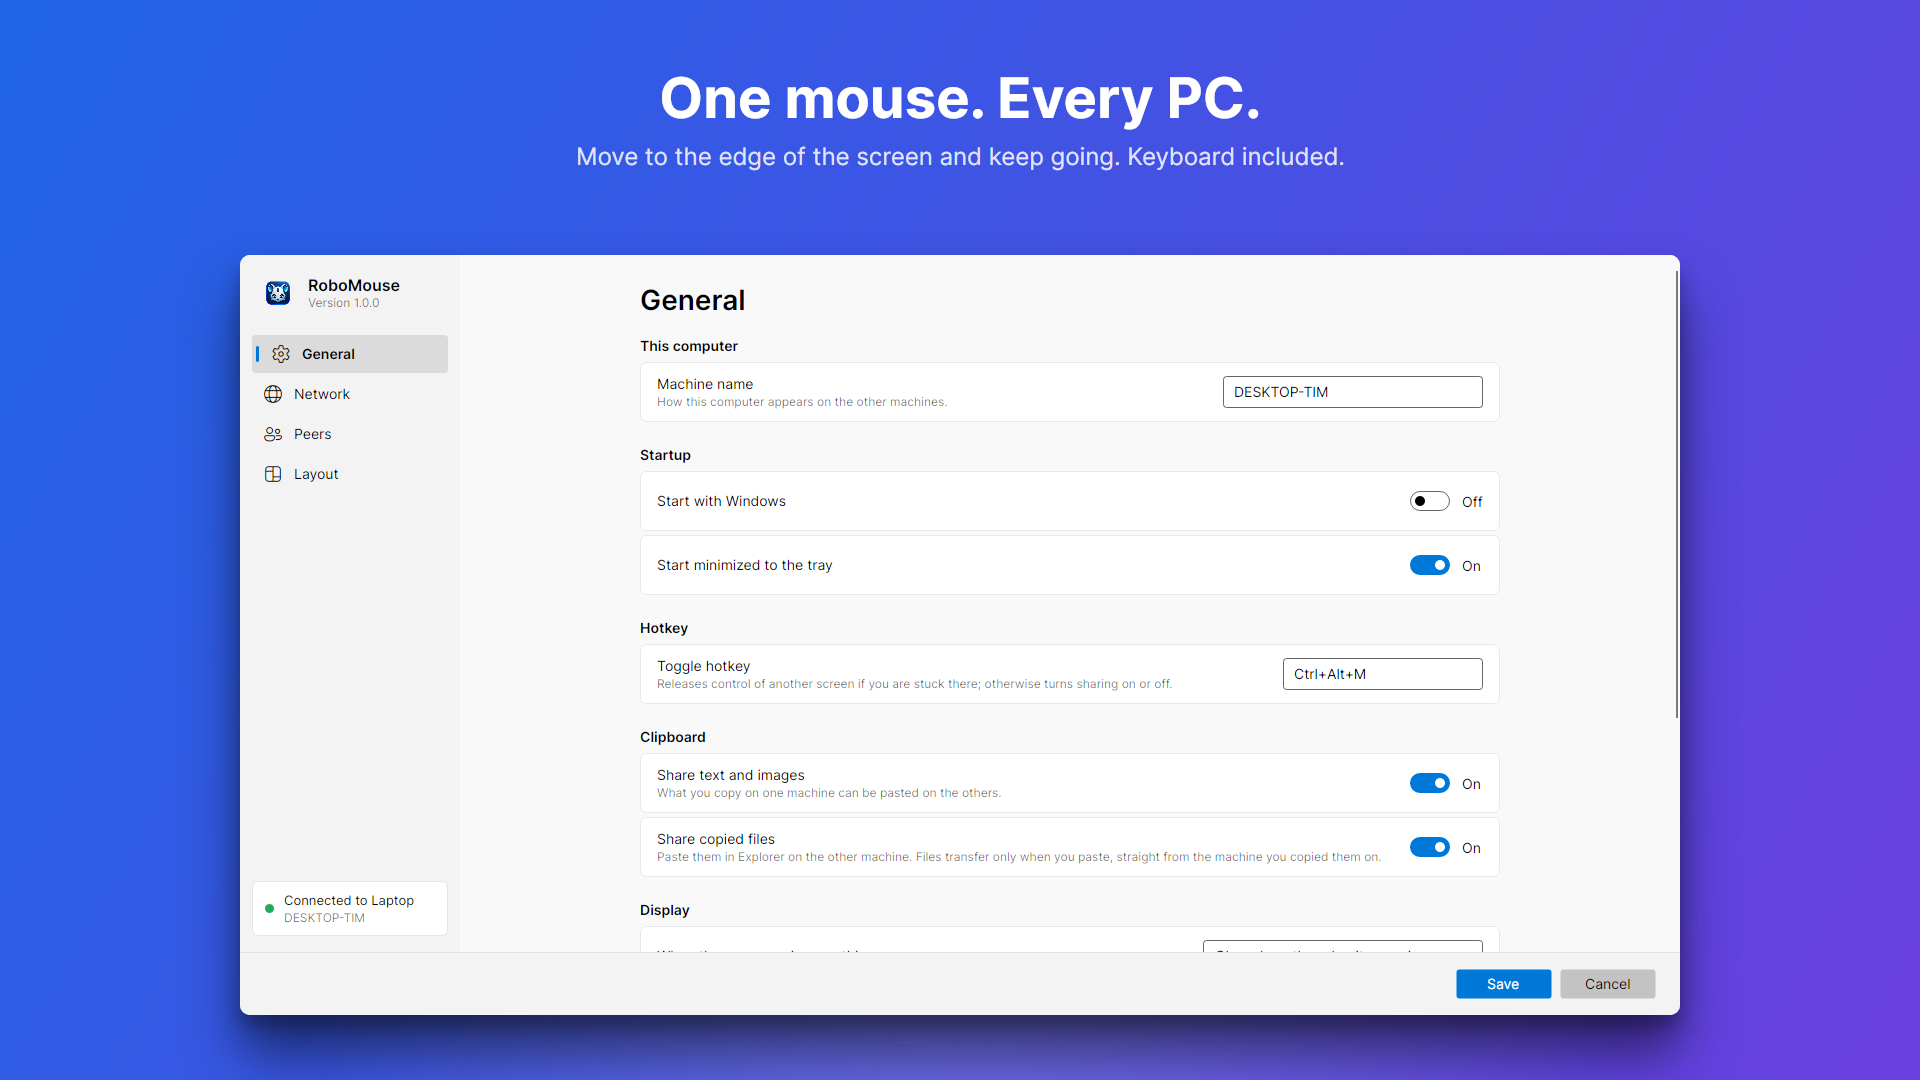
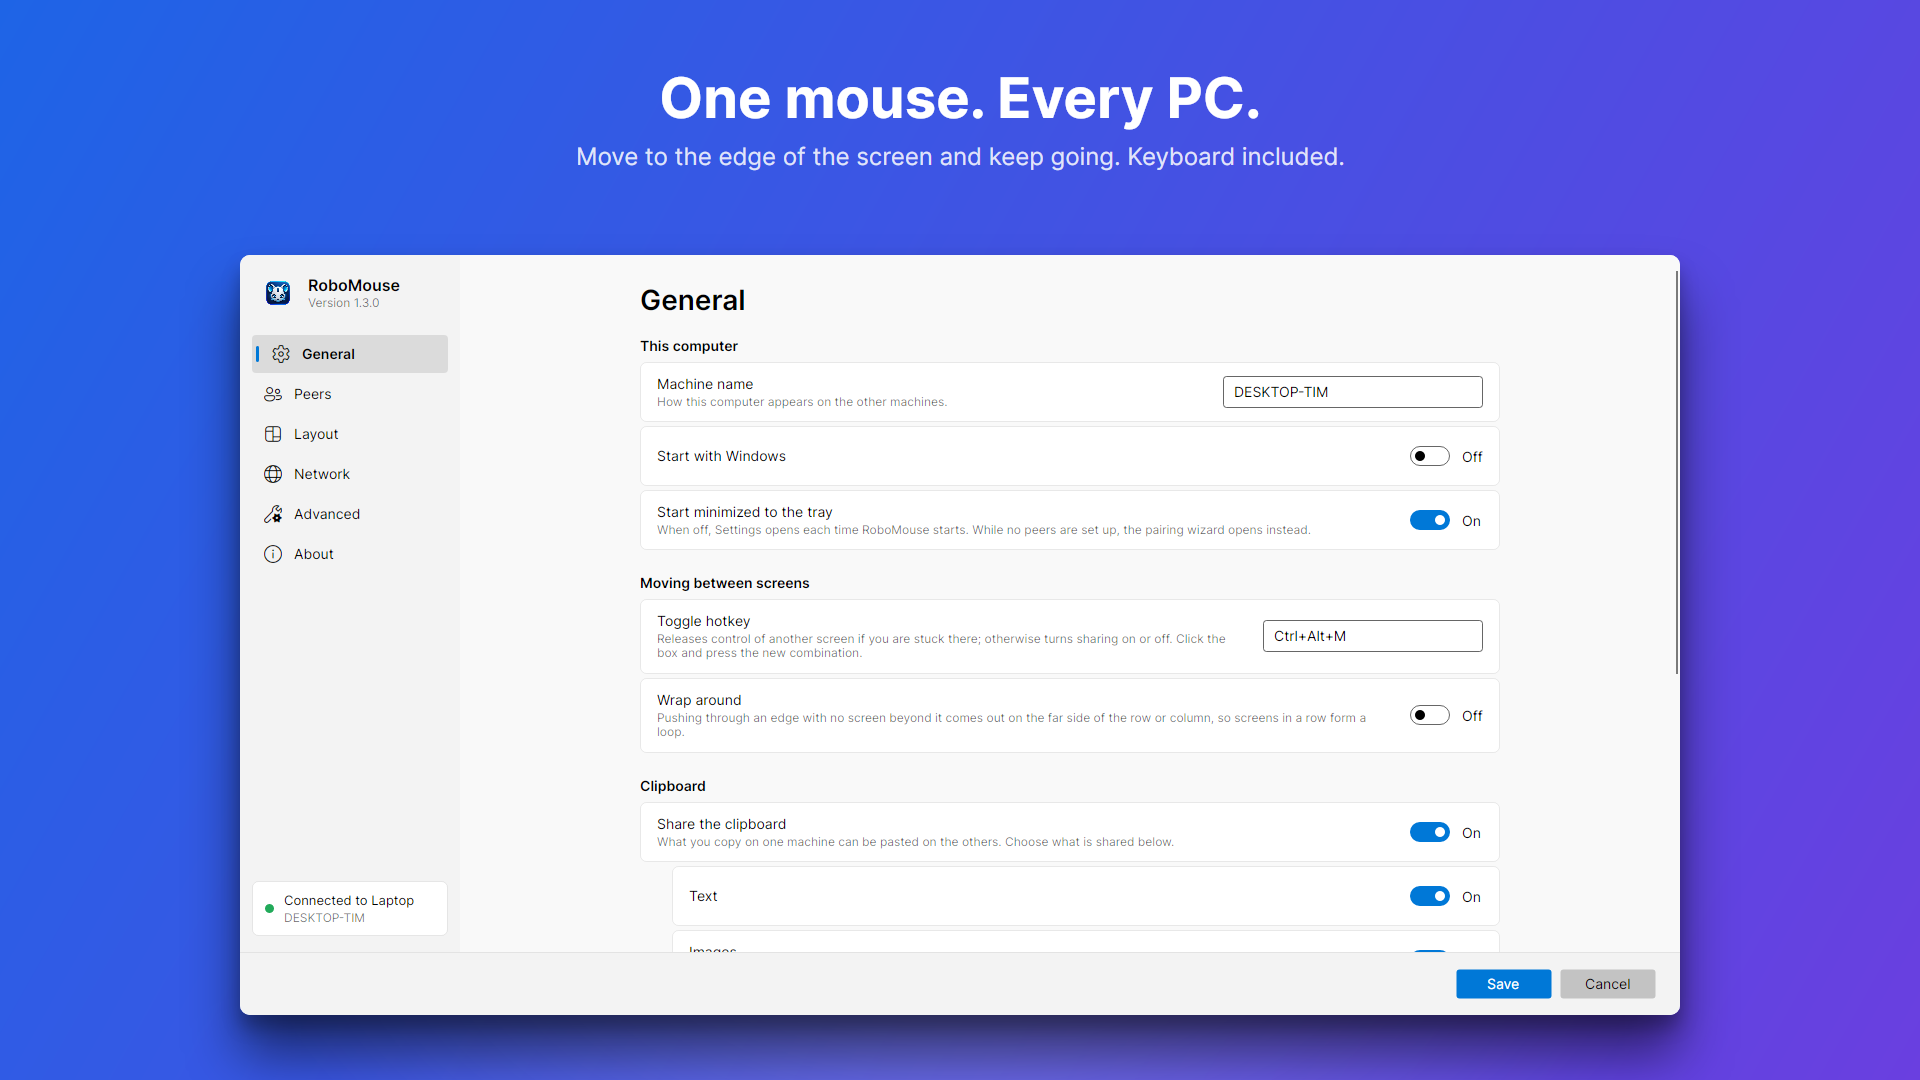
Version 1.3.1: desktop service accepts the Store app, refreshed Store listing
The service rejected the Microsoft Store app with "not inside its package folder
'(unknown)'": GetPackagePathByFullName only finds packages registered for the caller,
and the service runs as SYSTEM, for which the per-user Store package never is. Use
GetStagedPackagePathByFullName, which finds the package on disk regardless, and log
the Windows error if either package lookup fails.

Store listing: new screenshots (per-monitor layout, Advanced page), wording for the
generated pairing code and identity keys; the UI preview shows a placeholder address
instead of this machine's.

diff --git a/tools/RoboMouse.UiPreview/StoreScreenshots.cs b/tools/RoboMouse.UiPreview/StoreScreenshots.cs
@@ -31,11 +31,12 @@ internal static class StoreScreenshots
     private static readonly Slide[] Slides =
     {
         new("01-general", "One mouse. Every PC.", "Move to the edge of the screen and keep going. Keyboard included.", Color.Parse("#1E64E6"), Color.Parse("#6A3FE0")),
-        new("02-network", "Private by design", "A pairing code you choose. Encrypted end to end. No account, no cloud.", Color.Parse("#0F766E"), Color.Parse("#1D4ED8")),
+        new("02-network", "Private by design", "Pair with a generated code. Every PC is verified, everything encrypted. No account, no cloud.", Color.Parse("#0F766E"), Color.Parse("#1D4ED8")),
         new("03-peers", "Finds your other PCs for you", "Machines running RoboMouse on your network show up automatically.", Color.Parse("#7C3AED"), Color.Parse("#DB2777")),
-        new("04-layout", "Arrange screens by dragging", "Put each PC where it sits on your desk. Offsets are kept too.", Color.Parse("#0EA5E9"), Color.Parse("#2563EB")),
-        new("05-peer-setup", "Set up in seconds", "Name it, pick a side, test the link.", Color.Parse("#F59E0B"), Color.Parse("#DC2626")),
-        new("06-layout-dark", "Light or dark, your choice", "Follows your Windows theme, including the accent colour.", Color.Parse("#1F2937"), Color.Parse("#111827"), Dark: true)
+        new("04-layout", "Arrange every monitor by dragging", "Each screen of each PC goes where it sits on your desk.", Color.Parse("#0EA5E9"), Color.Parse("#2563EB")),
+        new("05-peer-setup", "Set up in seconds", "Name it, test the link, choose what it shares.", Color.Parse("#F59E0B"), Color.Parse("#DC2626")),
+        new("06-advanced", "No accidental crossings", "Push past the edge, corner dead zones, hotkeys to jump or lock the cursor.", Color.Parse("#059669"), Color.Parse("#0E7490")),
+        new("07-layout-dark", "Light or dark, your choice", "Follows your Windows theme, including the accent colour.", Color.Parse("#1F2937"), Color.Parse("#111827"), Dark: true)
     };
 
     public static void Render(string outDir)
@@ -69,7 +70,8 @@ internal static class StoreScreenshots
             {
                 "02-network" => SettingsPage.Network,
                 "03-peers" => SettingsPage.Peers,
-                "04-layout" or "06-layout-dark" => SettingsPage.Layout,
+                "04-layout" or "07-layout-dark" => SettingsPage.Layout,
+                "06-advanced" => SettingsPage.Advanced,
                 _ => SettingsPage.General
             };
             var settingsWindow = new SettingsWindow(settings, backend) { Width = WindowWidth, Height = WindowHeight };

diff --git a/src/RoboMouse.Service/Win32CallerChecks.cs b/src/RoboMouse.Service/Win32CallerChecks.cs
@@ -62,12 +62,23 @@ internal sealed unsafe class Win32ClientProcess : IClientProcess
         {
             var fullName = stackalloc char[256];
             uint nameLength = 256;
-            if (GetPackageFullName(_handle, &nameLength, fullName) != 0)
+            var error = GetPackageFullName(_handle, &nameLength, fullName);
+            if (error != 0)
+            {
+                Log.WriteLimited("package-full-name", $"GetPackageFullName failed for pid {_pid} (error {error})");
                 return null;
+            }
 
+            // The staged path: the service runs as SYSTEM, for which the Store package is not registered.
             var path = stackalloc char[1024];
             uint pathLength = 1024;
-            return GetPackagePathByFullName(fullName, &pathLength, path) == 0 ? new string(path) : null;
+            error = GetStagedPackagePathByFullName(fullName, &pathLength, path);
+            if (error != 0)
+            {
+                Log.WriteLimited("package-path", $"GetStagedPackagePathByFullName failed for '{new string(fullName)}' (error {error})");
+                return null;
+            }
+            return new string(path);
         }
     }
 

diff --git a/src/RoboMouse.Service/ServiceNative.cs b/src/RoboMouse.Service/ServiceNative.cs
@@ -98,8 +98,10 @@ internal static unsafe partial class ServiceNative
     [LibraryImport("kernel32.dll")]
     public static partial int GetPackageFullName(nint process, uint* packageFullNameLength, char* packageFullName);
 
+    // Unlike GetPackagePathByFullName this does not need the package registered for the caller: the
+    // Store app is registered for the signed-in user, never for SYSTEM.
     [LibraryImport("kernel32.dll")]
-    public static partial int GetPackagePathByFullName(char* packageFullName, uint* pathLength, char* path);
+    public static partial int GetStagedPackagePathByFullName(char* packageFullName, uint* pathLength, char* path);
 
     // --- Authenticode ----------------------------------------------------------------------------
 

diff --git a/src/RoboMouse.App/Services/LocalAddresses.cs b/src/RoboMouse.App/Services/LocalAddresses.cs
@@ -6,9 +6,14 @@ namespace RoboMouse.App.Services;
 /// <summary>This computer's IPv4 addresses, for typing into another machine.</summary>
 public static class LocalAddresses
 {
+    /// <summary>Replaces the real adapters, so previews and screenshots never show this machine's addresses.</summary>
+    public static Func<IReadOnlyList<string>>? Override { get; set; }
+
     /// <summary>One entry per address on a connected adapter, as "address  ·  adapter name".</summary>
     public static IReadOnlyList<string> Describe()
     {
+        if (Override is not null)
+            return Override();
         try
         {
             return NetworkInterface.GetAllNetworkInterfaces()

diff --git a/tools/RoboMouse.UiPreview/Program.cs b/tools/RoboMouse.UiPreview/Program.cs
@@ -29,6 +29,7 @@ internal static class Program
             args = args.Skip(1).ToArray();
         var outDir = args.Length > 0 ? args[0] : "ui-preview";
         Directory.CreateDirectory(outDir);
+        RoboMouse.App.Services.LocalAddresses.Override = () => new[] { "192.168.1.10  ·  Ethernet" };
 
         AppBuilder.Configure<RoboMouse.App.App>()
             .UseHeadless(new AvaloniaHeadlessPlatformOptions { UseHeadlessDrawing = false })

diff --git a/docs/store/listing.md b/docs/store/listing.md
@@ -27,8 +27,8 @@ the other machines on your network and connects to them directly.
 - **Shared clipboard.** Copy text or an image on one PC and paste it on another.
 - **Copy files, too.** Copy files on one machine and paste them in Explorer on the other. They
   transfer directly between the two, and only when you paste.
-- **Private by design.** Every connection is authenticated with a pairing code you choose and
-  encrypted end to end. Nothing is sent to the internet and there is no account.
+- **Private by design.** PCs pair with a generated code, then recognise each other by their identity
+  keys; every connection is encrypted end to end. Nothing is sent to the internet and there is no account.
 - **Stays out of the way.** Runs from the tray. The icon's colour shows what it is doing, and a hotkey
   turns sharing on or off or brings the mouse back if you get stuck on another screen.
 - **A brief glow marks the edge the mouse came in on**, so you always know which screen you are on.
@@ -59,11 +59,12 @@ Each is a 1920x1080 marketing frame: a gradient backdrop, a headline and the rea
 Upload in this order:
 
 1. `01-general.png` – settings, General page
-2. `02-network.png` – pairing code and ports
+2. `02-network.png` – pairing code, identity fingerprint and ports
 3. `03-peers.png` – configured and discovered peers
-4. `04-layout.png` – drag-to-arrange screen layout
+4. `04-layout.png` – drag-to-arrange layout, one screen per monitor
 5. `05-peer-setup.png` – add/edit peer dialog
-6. `06-layout-dark.png` – dark theme
+6. `06-advanced.png` – crossing guards (push past the edge, corner dead zone, hotkeys)
+7. `07-layout-dark.png` – dark theme
 
 ### Super hero art (16:9)
 

diff --git a/README.md b/README.md
@@ -23,7 +23,7 @@ machines find each other on your network and connect directly, encrypted.
 
 ## Install
 
-Windows 10/11. No .NET runtime needed. Current version: **1.2.0**, from the
+Windows 10/11. No .NET runtime needed. Current version: **1.3.1**, from the
 [latest release](https://github.com/timothydodd/RoboMouse/releases/latest).
 
 | Download | What it is |
